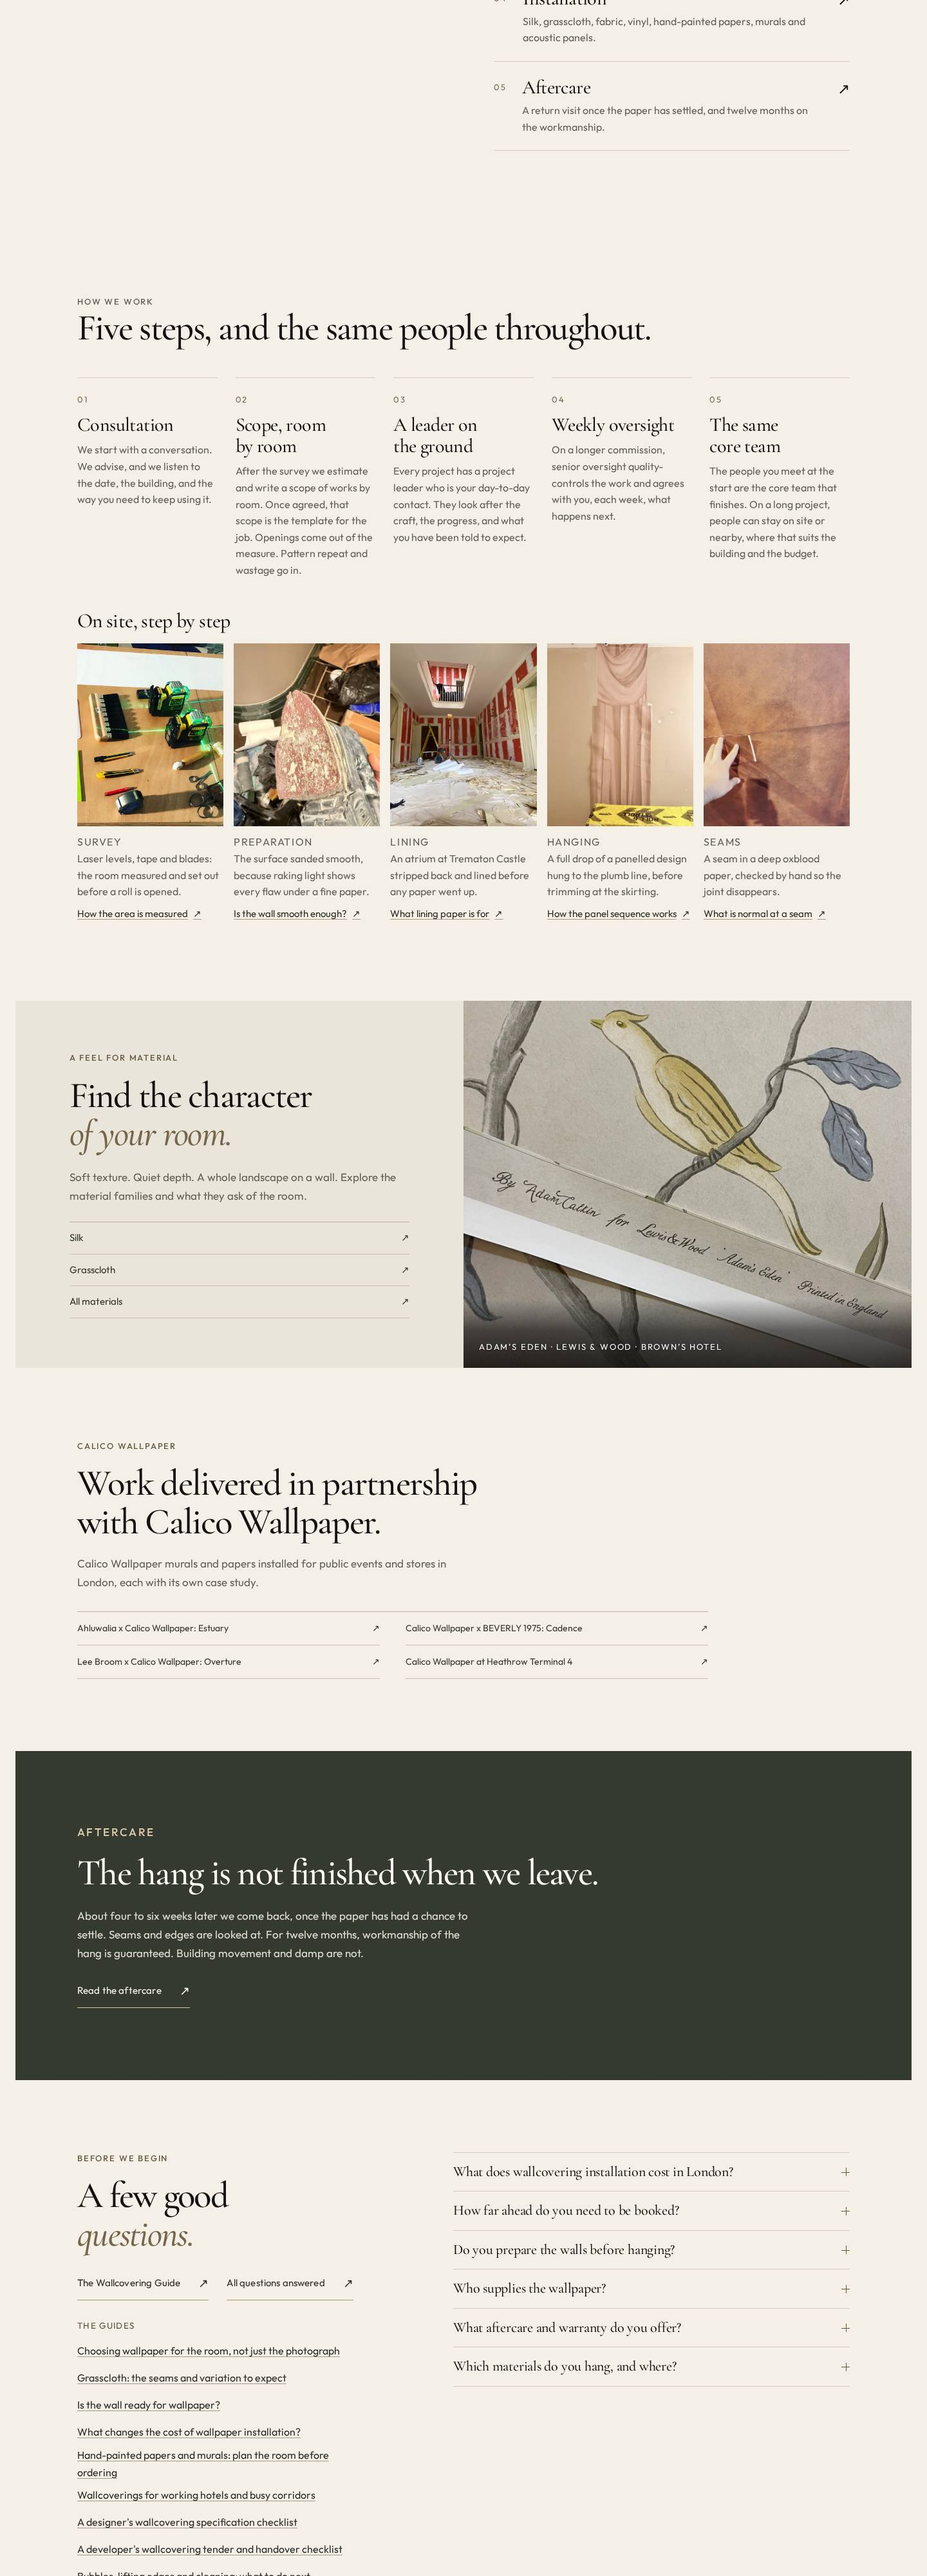
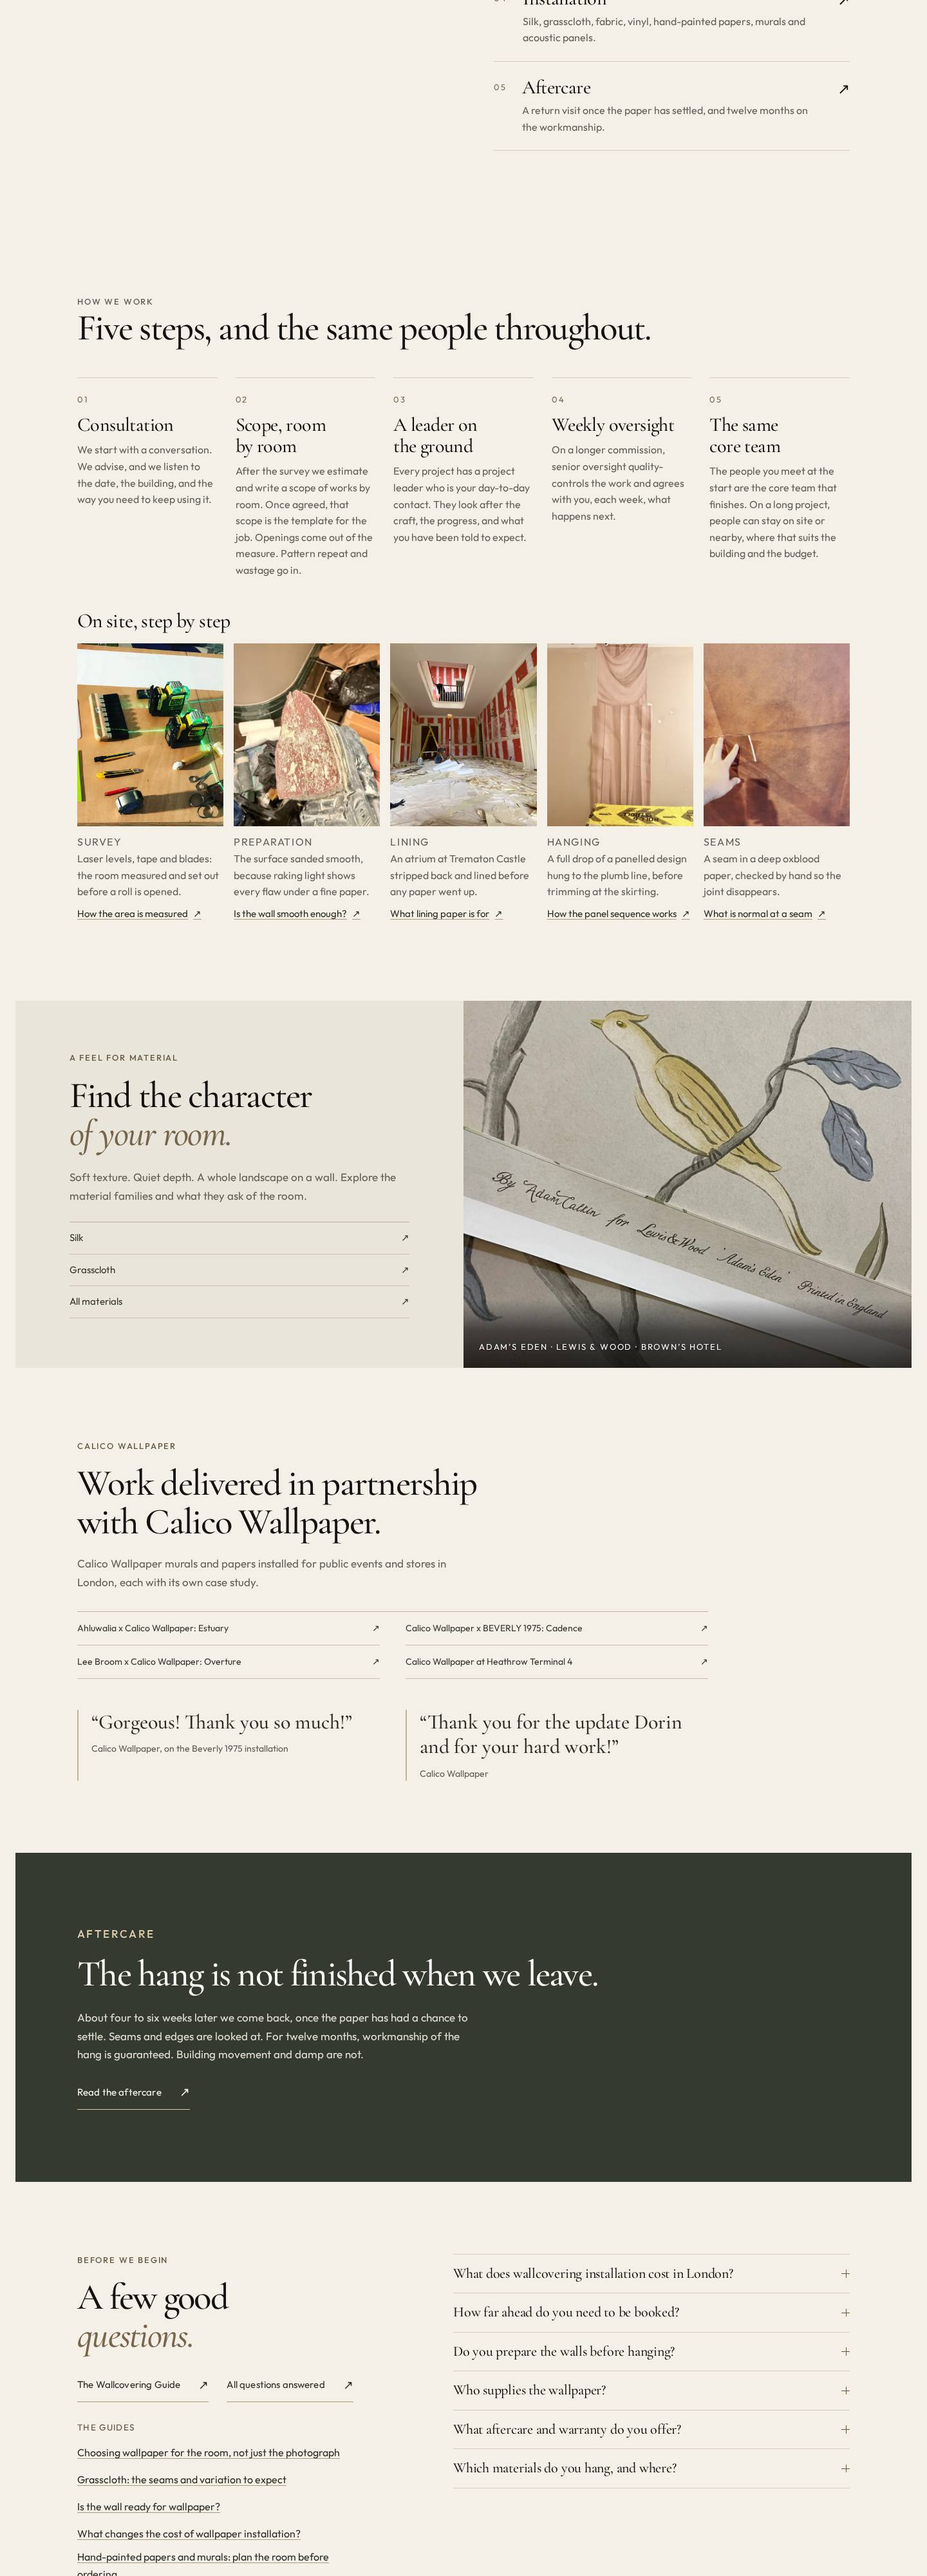
Home trust: testimonials restored (the two Calico Wallpaper lines Dorin cleared on 11 Oct 2026, exact wording, Calico attribution only, guard fails any other); Timorous Beasties joins the makers in the proof strip; screenshots retaken

Changed region(s): [[0.0, 0.6562, 1.0, 1.0]]

diff --git a/tests/dist-guards.test.ts b/tests/dist-guards.test.ts
@@ -82,8 +82,30 @@ test('claims decided by Dorin on 9 October 2026 hold in the built site', async (
   assert.doesNotMatch(everything, /2020–2022|2020 to 2022|2020 and 2022/);
   const owo = await readFile('dist/projects/raffles-london-the-owo/index.html', 'utf8');
   assert.match(owo, /2020–2023/);
-  // 4) No Calico praise quotes; the partnership line stays.
-  assert.doesNotMatch(everything, /Gorgeous! Thank you so much|for your hard work|In Calico's words|Client praise/i);
+  // 4) Calico praise: removed on 9 Oct, restored by Dorin on 11 Oct 2026 (src/data/approved-quotes.json). Only the exact
+  //    approved wording may appear, and only attributed to Calico Wallpaper: any personal name or other attribution fails.
+  //    The partnership line stays.
+  const approved = JSON.parse(await readFile('src/data/approved-quotes.json', 'utf8')) as { quotes: { quote: string; attribution: string }[] };
+  const ATTRIBUTION = /^Calico Wallpaper(?:, on the Beverly 1975 installation)?(?!\s*[,;:(—–-]|\s+(?:by|from|per)\b)/;
+  for (const item of approved.quotes) assert.match(item.attribution, /^Calico Wallpaper(?:, on the Beverly 1975 installation)?$/, `approved attribution: ${item.attribution}`);
+  for (const bad of ['Jane Smith, Calico Wallpaper', 'Calico Wallpaper, Jane Smith', 'Calico Wallpaper (Jane Smith)', 'Calico Wallpaper — Jane Smith', 'Calico Wallpaper - Jane Smith', 'Calico Wallpaper: Jane Smith']) {
+    assert.doesNotMatch(bad, ATTRIBUTION, `the guard must reject "${bad}"`);
+  }
+  const praiseText = everything.replace(/<[^>]+>/g, ' ').replace(/&quot;|&#34;|&#39;|[“”"]/g, ' ').replace(/\s+/g, ' ');
+  for (const hit of praiseText.matchAll(/Gorgeous|hard work|Thank you so much/gi)) {
+    // The approved quote must cover the hit itself, so a reworded line next to an approved one still fails.
+    const at = hit.index!;
+    const quote = approved.quotes.find((item) => {
+      const start = praiseText.lastIndexOf(item.quote, at);
+      return start >= 0 && start + item.quote.length > at;
+    });
+    assert.ok(quote, `Calico praise altered: "${praiseText.slice(Math.max(0, at - 60), at + 80)}"`);
+    const end = praiseText.lastIndexOf(quote!.quote, at) + quote!.quote.length;
+    const after = praiseText.slice(end, end + 160).replace(/^[\s—–-]+/, '');
+    assert.match(after, ATTRIBUTION, `Calico praise must be attributed to Calico Wallpaper only: "${after.slice(0, 80)}"`);
+    assert.ok(after.startsWith(quote!.attribution), `attribution changed: "${after.slice(0, 80)}"`);
+  }
+  assert.doesNotMatch(everything, /In Calico's words|Client praise/i);
   assert.match(html, /Delivered in partnership with/);
   assert.doesNotMatch(everything, /Trusted by Calico/i);
   // 5) North London residence is live, with no press links and no owner name.

diff --git a/src/styles/atelier.css b/src/styles/atelier.css
@@ -212,6 +212,12 @@
 .home-calico-text { margin:22px 0 0; color:var(--atelier-muted); }
 .home-calico ul { list-style:none; margin:30px 0 0; padding:0; display:grid; grid-template-columns:1fr 1fr; gap:0 40px; border-top:1px solid #bcb39f; max-width:980px; }
 .home-calico li a { display:flex; justify-content:space-between; gap:16px; min-height:44px; align-items:center; padding:14px 0; border-bottom:1px solid #c9bfad; color:#303329; text-decoration:none; }
+.home-praise { display:grid; grid-template-columns:1fr 1fr; gap:28px 40px; margin:48px 0 0; max-width:980px; }
+.home-praise-quote { margin:0; padding-left:20px; border-left:2px solid #bcb39f; }
+.home-praise-quote blockquote { margin:0; }
+.home-praise-quote blockquote p { margin:0; font-family:var(--font-serif); font-size:clamp(1.5rem, 2.4vw, 2rem); line-height:1.2; color:#292a23; }
+.home-praise-quote figcaption { margin-top:12px; font-size:14px; line-height:1.5; color:#5d5a50; }
+.home-praise-quote figcaption a { color:inherit; }
 .home-aftercare { background:var(--atelier-olive); color:#f4f0e8; margin:0 24px; }
 .home-aftercare-inner { max-width:var(--content-max); margin:auto; padding-inline:var(--gutter); }
 .home-aftercare h2 { color:#fffdf8; max-width:820px; }
@@ -253,7 +259,7 @@
   .atelier-intro-bottom p { font-size:var(--text-body); }
   .site-header .header-mobile .nav-link { font-size:14px; }
   .home-facts { grid-template-columns:1fr; gap:16px; }
-  .home-more-grid, .home-process ol, .home-needs-grid, .home-record ul, .home-calico ul { grid-template-columns:1fr; }
+  .home-more-grid, .home-process ol, .home-needs-grid, .home-record ul, .home-calico ul, .home-praise { grid-template-columns:1fr; }
   .home-aftercare { margin:0 12px; }
   .home-showcase { padding:44px 0 48px; }
   .home-showcase-head { margin-bottom:24px; }

diff --git a/src/lib/trust.ts b/src/lib/trust.ts
@@ -4,7 +4,8 @@
  * - Case-study count: the published case studies (drafts are already filtered out), never typed in.
  * - Programme figures: facts.json programmeFigures entries that carry a short 'figure' label
  *   (the five Instagram-sourced figures Dorin approved; each links to its case study).
- * - Makers: six makers whose installs are documented on /materials/ (makers-installed.json),
+ * - Makers: the seven makers Dorin confirmed as installed (Timorous Beasties added 11 Oct 2026, evidenced by Hyde London City),
+ *   whose installs are documented on /materials/ (makers-installed.json),
  *   each linked to its anchor there.
  * - Team: the About page's own sentences (about.json howWeWork and founderSummary), quoted as written.
  */
@@ -24,6 +25,7 @@ export const trustMakers = [
   { name: 'Phillip Jeffries', href: '/materials/#maker-phillip-jeffries' },
   { name: 'Muraspec', href: '/materials/#maker-muraspec' },
   { name: 'Calico Wallpaper', href: '/materials/#maker-calico-wallpaper' },
+  { name: 'Timorous Beasties', href: '/materials/#maker-timorous-beasties' },
 ];
 
 const items = about.howWeWork.items;

diff --git a/docs/sources.md b/docs/sources.md
@@ -48,3 +48,8 @@ Source for every fact below: **the @mrwallcover Instagram** (https://www.instagr
 
 - **8 months, finished at the end of 2020.** Post [CJtvVheldiT](https://www.instagram.com/p/CJtvVheldiT/), 6 Jan 2021: "part of this spectacular project in the heart of London for 8 months … Completed at the end of 2020", location-tagged Carlton Tower, Knightsbridge. Dorin cleared the hotel for a full case study on 11 Oct 2026, with official photographs (the earlier "named only in the About timeline" note above is superseded). Used in the case study, About (hotels list; the timeline line is unchanged), hotels.json, facts.json and, through them, /for-ai/, llms and projects.json. The caption's area figure stays out.
 - **The rooms:** "light oak wall panelling … textured inset wall coverings … a more residential feel": Jumeirah's fact sheet for the hotel, https://mediahub.jumeirah.com/wp-content/uploads/2026/05/fc6b9667f39a4beb1d258566117e572c.pdf (checked 11 Oct 2026). Reopening in 2021: Jumeirah Group release, 20 May 2021 ("will open … on June 1st, 2021"). No hotel figures (keys, cost) are used.
+
+## Calico Wallpaper praise and Timorous Beasties (approved by Dorin Burcus, 11 Oct 2026)
+
+- **Calico Wallpaper praise, restored.** The two lines removed by the 9 Oct claim fixes (commit b28e7c0) go back with their original wording exactly: "Gorgeous! Thank you so much!" (Calico Wallpaper, on the Beverly 1975 installation) and "Thank you for the update Dorin and for your hard work!" (Calico Wallpaper). Attributed to Calico Wallpaper only, never to a person. Data: src/data/approved-quotes.json. Used on /reviews/ (PR #43) and the homepage testimonials (PR #45). tests/dist-guards.test.ts fails the build if either line is altered or carries any other attribution. Source: **Dorin Burcus, 11 Oct 2026**.
+- **Timorous Beasties is an installed maker.** Evidence: Tropical Clouded Leopard and Totem Damask, custom-printed as vinyl, through the 111 guest rooms of Hyde London City (see the Hyde London City section above and /projects/old-bailey-hotel/). Added to the confirmed makers in src/data/buyer-answers.json (makersInstalled, so /.well-known/facts.json and /for-ai/), the specified-papers lede, /services/timorous-beasties-installer/ (PR #43) and the homepage proof strip (PR #45). Not a maker approval or recommended-installer listing. Source: **Dorin Burcus, 11 Oct 2026**.
